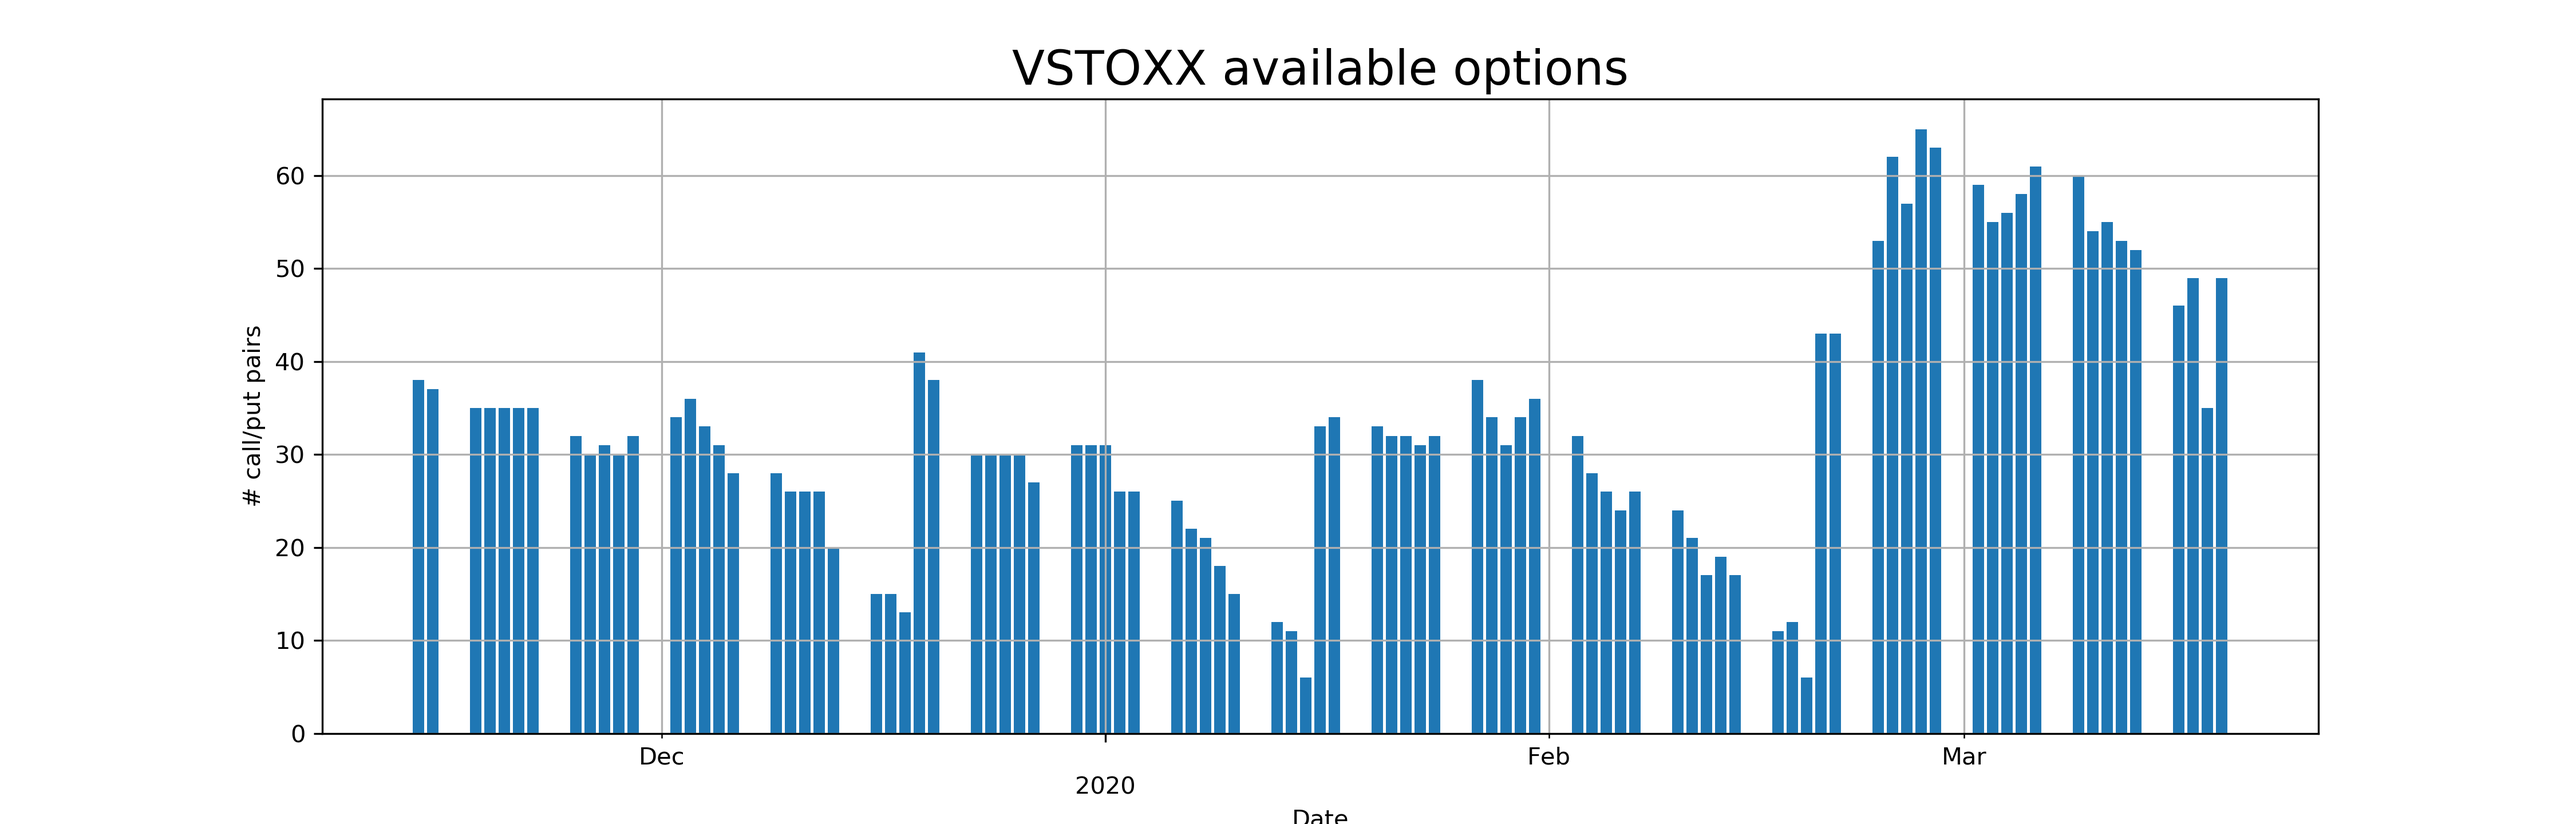
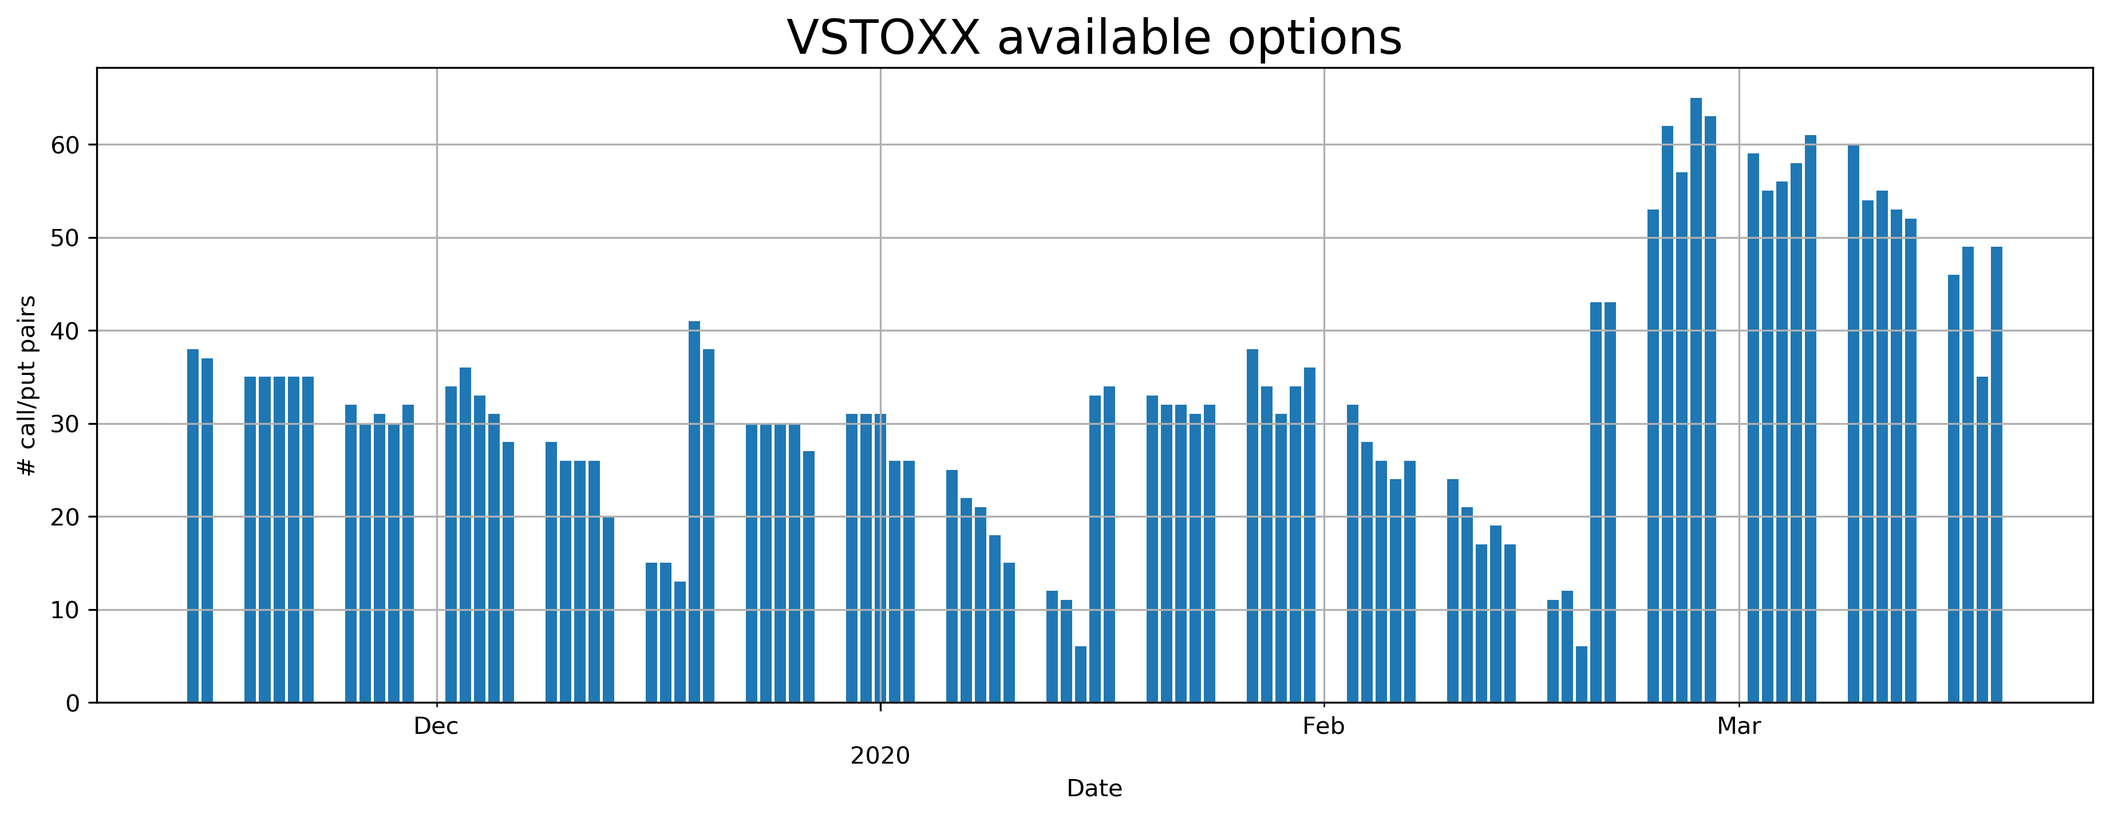
Updated files and README

diff --git a/python/current_vstoxx.py b/python/current_vstoxx.py
@@ -73,7 +73,7 @@ VSTOXXCalc.save_index("output/", "VSTOXX")
 
 #plot available options per date
 plt = bar_chart(VSTOXXCalc.index.index, VSTOXXCalc.index["NO_1"] , "VSTOXX available options", "# call/put pairs")
-plt.savefig('output/VSTOXX_avail_options.png', dpi=300)
+plt.savefig('output/VSTOXX_avail_options.png', dpi=300, bbox_inches='tight')
 plt.show()
 
 #plot EUROSTOXX50 for selected time frame

diff --git a/README.md b/README.md
@@ -97,7 +97,7 @@ Creation of a new volatility index based on the MSCI World index.<br>
 related files: /msci_world.py<br>
 By running this the following graphics will be created:
 [![Options Available per Day](/python/output/VMSCI_avail_options.png)]()
-[![MSCI World](/python/output/output/MSCIWorld_lastmonths.png)]()
+[![MSCI World](/python/output/MSCIWorld_lastmonths.png)]()
 [![constructed Volatility Index on the MSC World](/python/output/const_VMSCI2.png)]()
 
 ---
